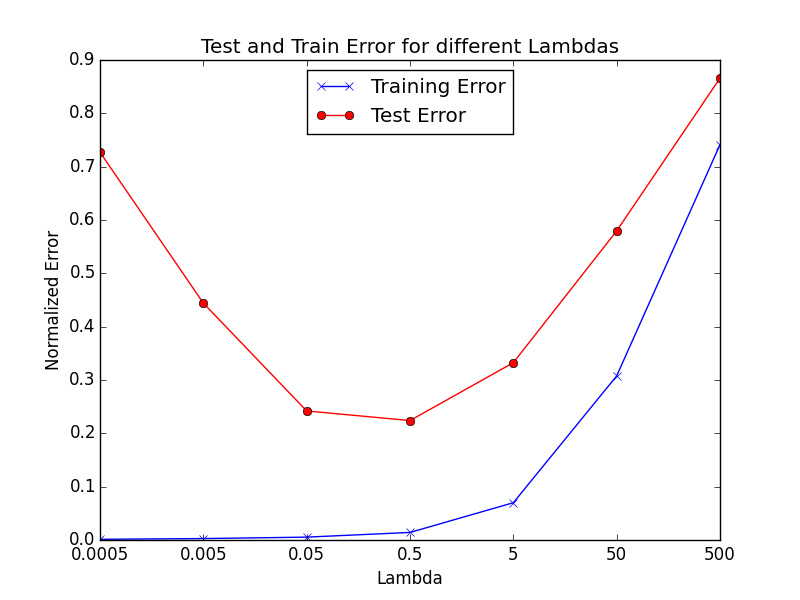
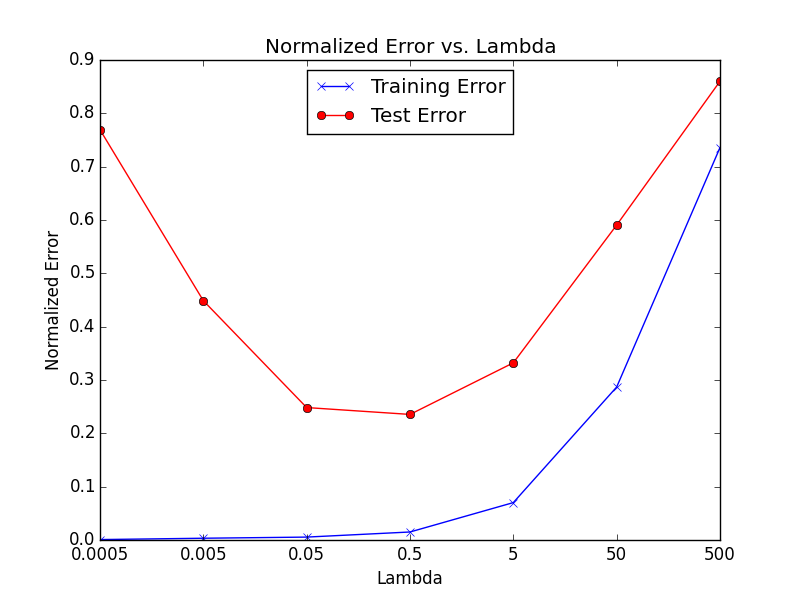
almost done with 2d, starting 3

diff --git a/p2.py b/p2.py
@@ -1,32 +1,44 @@
 import numpy as np
 import matplotlib.pyplot as plt
+import random
 
-train_n = 100
-test_n = 1000
-d = 100
-n_trials = 10
+TRAIN_N = 100
+TEST_N = 1000
+D = 100
+N_TRIALS = 10
+N_ITERS = 1000000
 
+
+def gen_data():
+	X_train = np.random.normal(0,1, size=(TRAIN_N,D))
+	a_true = np.random.normal(0,1, size=(D,1))
+	y_train = X_train.dot(a_true) + np.random.normal(0,0.5,size=(TRAIN_N,1))
+	X_test = np.random.normal(0,1, size=(TEST_N,D))
+	y_test = X_test.dot(a_true) + np.random.normal(0,0.5,size=(TEST_N,1))
+
+	return X_train, a_true, y_train, X_test, y_test
+
+def compute_normalized_error(X, y, a):
+	return np.linalg.norm(X.dot(a) - y) / np.linalg.norm(y)
 
 def parta():
 	X_train_errors = []
 	X_test_errors = []
-	for _ in range(n_trials):
-		X_train = np.random.normal(0,1, size=(train_n,d))
-		a_true = np.random.normal(0,1, size=(d,1))
-		y_train = X_train.dot(a_true) + np.random.normal(0,0.5,size=(train_n,1))
-		X_test = np.random.normal(0,1, size=(test_n,d))
-		y_test = X_test.dot(a_true) + np.random.normal(0,0.5,size=(test_n,1))
+	for _ in range(N_TRIALS):
+		X_train, a_true, y_train, X_test, y_test = gen_data()
 
 		a = np.linalg.inv(X_train).dot(y_train)
-		normalized_train_error = np.linalg.norm(X_train.dot(a) - y_train) / np.linalg.norm(y_train)
+		compute_normalized_error(X_train, y_train, a)
+		normalized_train_error = compute_normalized_error(X_train, y_train, a)
 		X_train_errors.append(normalized_train_error)
-		normalized_test_error = np.linalg.norm(X_test.dot(a) - y_test) / np.linalg.norm(y_test)
+		normalized_test_error = compute_normalized_error(X_test, y_test, a)
 		X_test_errors.append(normalized_test_error)
-
 
 	print "Average Normalized Train Error: ", np.mean(X_train_errors)
 	print "Average Normalized Test Error: ", np.mean(X_test_errors)
 
+def l2_reg_closed_form(X, y, l):
+	return np.linalg.inv(X.T.dot(X) + l * np.identity(D)).dot(X.T).dot(y)
 
 def partb():
 	lambdas = [0.0005, 0.005, 0.05, 0.5, 5, 50, 500]
@@ -36,17 +48,13 @@ def partb():
 	for l in lambdas:
 		X_train_errors = []
 		X_test_errors = []
-		for _ in range(n_trials):
-			X_train = np.random.normal(0,1, size=(train_n,d))
-			a_true = np.random.normal(0,1, size=(d,1))
-			y_train = X_train.dot(a_true) + np.random.normal(0,0.5,size=(train_n,1))
-			X_test = np.random.normal(0,1, size=(test_n,d))
-			y_test = X_test.dot(a_true) + np.random.normal(0,0.5,size=(test_n,1))
+		for _ in range(N_TRIALS):
+			X_train, a_true, y_train, X_test, y_test = gen_data()
 
-			a = np.linalg.inv(X_train.T.dot(X_train) + l * np.identity(d)).dot(X_train.T).dot(y_train)
-			normalized_train_error = np.linalg.norm(X_train.dot(a) - y_train) / np.linalg.norm(y_train)
+			a = l2_reg_closed_form(X_train, y_train, l)
+			normalized_train_error = compute_normalized_error(X_train, y_train, a)
 			X_train_errors.append(normalized_train_error)
-			normalized_test_error = np.linalg.norm(X_test.dot(a) - y_test) / np.linalg.norm(y_test)
+			normalized_test_error = compute_normalized_error(X_test, y_test, a)
 			X_test_errors.append(normalized_test_error)
 
 		train_errors.append(np.mean(X_train_errors))
@@ -59,17 +67,122 @@ def partb():
 	ax.set_xticklabels(lambdas)
 	plt.xlabel('Lambda')
 	plt.ylabel('Normalized Error')
-	plt.title('Test and Train Error for different Lambdas')
+	plt.title('Normalized Error vs. Lambda')
 	plt.legend(loc=9)
 	plt.show()
 
+def compute_loss(X, y, a): 
+	return np.sum((X.dot(a) - y)**2)
 
+def sgd(X, y, alpha=0.0005): 
+	a = np.zeros((D,1))
+	rows = X.shape[0]
+	#losses = []
+
+	for i in xrange(N_ITERS): 
+		#loss = compute_loss(X,y,a)
+		#losses.append(loss)
+		#if i % 100000 == 0: print 'loss at iteration %d: %f' % (i+1,loss)
+		index = random.randint(0, rows - 1)
+		x = X[index]
+		grad = 2*(x.dot(a) - y[index])*x.T
+		a = a - alpha * grad.reshape((-1,1))
+
+	return a
+	#return losses 
+
+def partc():
+	step_sizes = [0.00005, 0.0005, 0.005]
+	train_errors = {}
+	test_errors = {}
+	for alpha in step_sizes:
+		train_errors[alpha] = []
+		test_errors[alpha] = []
+
+	true_train_errors = []
+	true_test_errors = []
+
+
+	for i in range(N_TRIALS):
+		print "Starting trial", i
+		X_train, a_true, y_train, X_test, y_test = gen_data()
+
+		for alpha in step_sizes:
+			a = sgd(X_train, y_train, alpha)
+			normalized_train_error = compute_normalized_error(X_train, y_train, a)
+			train_errors[alpha].append(normalized_train_error)
+			normalized_test_error = compute_normalized_error(X_test, y_test, a)
+			test_errors[alpha].append(normalized_test_error)
+
+		normalized_train_error = compute_normalized_error(X_train, y_train, a_true)
+		true_train_errors.append(normalized_train_error)
+		normalized_test_error = compute_normalized_error(X_test, y_test, a_true)
+		true_test_errors.append(normalized_test_error)
+
+	for alpha in step_sizes:
+		print alpha, np.mean(train_errors[alpha]), np.mean(test_errors[alpha])
+	print "true", np.mean(true_train_errors), np.mean(true_test_errors)
+
+
+def sgd2(X, y, X_test, y_test, alpha): 
+	a = np.zeros((D,1))
+	rows = X.shape[0]
+
+	train_errors = []
+	test_errors = []
+	norms = []
+
+	for i in xrange(N_ITERS): 
+		if i % 100000 == 0:
+			print "iteration", i
+		index = random.randint(0, rows - 1)
+		x = X[index]
+		grad = 2*(x.dot(a) - y[index])*x.T
+		a = a - alpha * grad.reshape((-1,1))
+
+		#normalized_train_error = compute_normalized_error(X, y, a)
+		#train_errors.append(normalized_train_error)
+		normalized_test_error = compute_normalized_error(X_test, y_test, a)
+		test_errors.append(normalized_test_error)
+		#l2_norm = np.linalg.norm(a)
+		#norms.append(l2_norm)
+
+	return train_errors, test_errors, norms
+
+
+def partd():
+	step_sizes = [0.00005, 0.005]
+	train_errors = {}
+	test_errors = {}
+	norms = {}
+
+	X_train, a_true, y_train, X_test, y_test = gen_data()
+	for alpha in step_sizes:
+		train_e, test_e, n = sgd2(X_train, y_train, X_test, y_test, alpha)
+		#train_errors[alpha] = train_e
+		test_errors[alpha] = test_e
+		#norms[alpha] = n
+
+	#true_train_error = compute_normalized_error(X_train, y_train, a_true)
+
+
+	fig, ax = plt.subplots()
+	plt.plot(xrange(1, N_ITERS + 1), test_errors[step_sizes[0]], color='b', label='alpha = 5e-5')
+	plt.plot(xrange(1, N_ITERS + 1), test_errors[step_sizes[1]], color='r', label='alpha = 5e-3')
+	#plt.axhline(true_train_error, color='g', label='true')
+	plt.xlabel('Iteration')
+	plt.ylabel('Normalized Test Error')
+	plt.title('Normalized Test Error vs. Iteration')
+	plt.legend(loc=2)
+	plt.show()
 
 
 
 def main():
 	#parta()
-	partb()
+	#partb()
+	#partc()
+	partd()
 
 if __name__ == "__main__":
     main()
